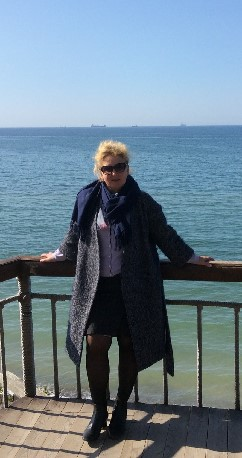
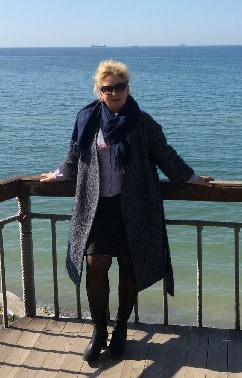
various fixes
photo, deleted contact-page, moved contact-information in about-page,
grid instead media on about-page, commented strings about company

diff --git a/koenig/about.html b/koenig/about.html
@@ -29,27 +29,41 @@
           <ul class="nav nav-pills pull-right">
             <li role="presentation"><a href="index.html">Экскурсии</a></li>
             <li role="presentation" class="active"><a href="about.html">Обо мне</a></li>
-            <li role="presentation"><a href="contacts.html">Контакты</a></li>
           </ul>
         </nav>
         <h3 class="text-muted">Кёниг</h3>
       </div>
-
-      <div class="media">
-        <div class="media-left media-middle">
-            <img class="media-object thumbnail" src="images/photo.jpg" alt="моё фото">
+      <h3 class="header-center">Добрый день, мои дорогие туристы!</h3>
+      
+      <div class="row">
+        <div class="col-xs-4">
+          <img class="img-thumbnail" src="images/photo.jpg" alt="моё фото">
+          
+          <ul id="contact-info">
+           <li>
+             <span class="glyphicon glyphicon-earphone" aria-hidden="true"></span>
+             <span class="field">Телефон:</span>
+             <br>
+             +7 911 468-72-73
+           </li>
+           <li>
+             <span class="glyphicon glyphicon-envelope" aria-hidden="true"></span>
+             <span class="field">Электропочта:</span>
+             <br>
+             <a href="mailto:Liliya.zhevleneva@gmail.com" title="Email">Liliya.zhevleneva@gmail.com</a>
+           </li>
+          </ul>
         </div>
-        <div class="media-body">
-          <h3 class="media-heading">Добрый день, мои дорогие туристы!</h3>
+        <div class="col-xs-8">
           <p>Меня зовут Лиля. Вот уже 10 лет я работаю экскурсоводом — как с большими группами, так и с индивидуальными туристами. Мои маршруты — Северная Польша, Литва и, конечно же, Калининградская область.</p>
           <p>Когда я начинала работать на этом поприще, я встретила немало как трудностей, так и приключений на своем пути. Впрочем, сегодня я могу гордо сказать, что я хорошо знаю как город, так и область. Почему вам стоит выбрать именно меня? Я родилась и выросла в Калининграде и видела разный город на протяжении долгого времени.</p>
           <p>В течение долгого времени у меня сложилась своя, выработанная система туристических маршрутов, которую, в то же время, можно комбинировать и видоизменять сообразно вашему вкусу. Вообще, Калининград — город, где многие достопримечательности расположены в разных его концах, и осмотреть пешком всё просто невозможно. Поэтому автомобильно-пешеходная экскурсия — идеальный способ получить полное представление о городе. На самых важных маршрутах мы будем останавливаться и выходить, чтобы поближе рассмотреть и не спеша полюбоваться достопримечательностями. Также, всегда можно по вашему желанию остановиться в том месте, где захочется.</p>
           <p>Что немаловажно: все экскурсии проходят на комфортабельном автомобиле, минивэне или автобусе. Это чрезвычайно удобно; группа любого размера сможет разместиться с комфортом.</p>
         </div>
       </div>
-
+      
       <footer class="footer">
-        <p>&copy; 2017 Company, Inc.</p>
+<!--        <p>&copy; 2017 Company, Inc.</p>-->
       </footer>
 
     </div> <!-- /container -->

diff --git a/koenig/index.html b/koenig/index.html
@@ -30,7 +30,6 @@
           <ul class="nav nav-pills pull-right">
             <li role="presentation" class="active"><a href="index.html">Экскурсии</a></li>
             <li role="presentation"><a href="about.html">Обо мне</a></li>
-            <li role="presentation"><a href="contacts.html">Контакты</a></li>
           </ul>
         </nav>
         <h3 class="text-muted">Кёниг</h3>
@@ -39,7 +38,7 @@
       <div class="jumbotron">
         <h1>Калининград</h1>
         <p class="lead">Калининград — город-сад, город-крепость и одновременно город Канта и Гофмана. Вы спросите, как это сочетается? Представить это и правда сложно, ведь в городе можно прогуляться по фортам, посмотреть на старые городские ворота с роскошно звучащими названиями: «Закхаймские», «Фридландские», «Фридрихсбургские» и купить в качестве сувениров знаменитого кёнигсбергского кота и, конечно же янтарь. Обо всем этом можно долго говорить, но лучше увидеть, для чего…</p>
-        <p><a class="btn btn-lg btn-success" href="contacts.html" role="button">Договориться о встрече</a></p>
+        <p><a class="btn btn-lg btn-success" href="about.html" role="button">Договориться о встрече</a></p>
       </div>
       
       <div class="row marketing">
@@ -422,7 +421,7 @@
       </div><!-- /row marketing -->
 
       <footer class="footer">
-        <p>&copy; 2017 Company, Inc.</p>
+<!--        <p>&copy; 2017 Company, Inc.</p>-->
       </footer>
 
     </div> <!-- /container -->

diff --git a/koenig/style.css b/koenig/style.css
@@ -5,7 +5,7 @@ body {
 }
 
 .container {
-  min-width: 430px;
+  min-width: 356px;
 }
 
 /* Everything but the jumbotron gets side spacing for mobile first views */
@@ -90,16 +90,17 @@ ul{
 }
 
 ul#contact-info {
-  margin-left: 25px;
-  margin-bottom: 10px;
+/*  margin-left: 15px;*/
+  margin-top: 10px;
 }
 
 ul#contact-info li {
   padding-bottom: 5px;
+  word-wrap: break-word;
 }
 
 ul#contact-info .glyphicon {
-    font-size: 20px;
+/*    font-size: 20px;*/
     float: left;
     line-height: 25px;
     margin-right: 10px;
@@ -158,4 +159,8 @@ ul#contact-info .field {
 
 .media-left {
   padding-right: 20px;
+}
+
+.header-center{
+  text-align: center;
 }
